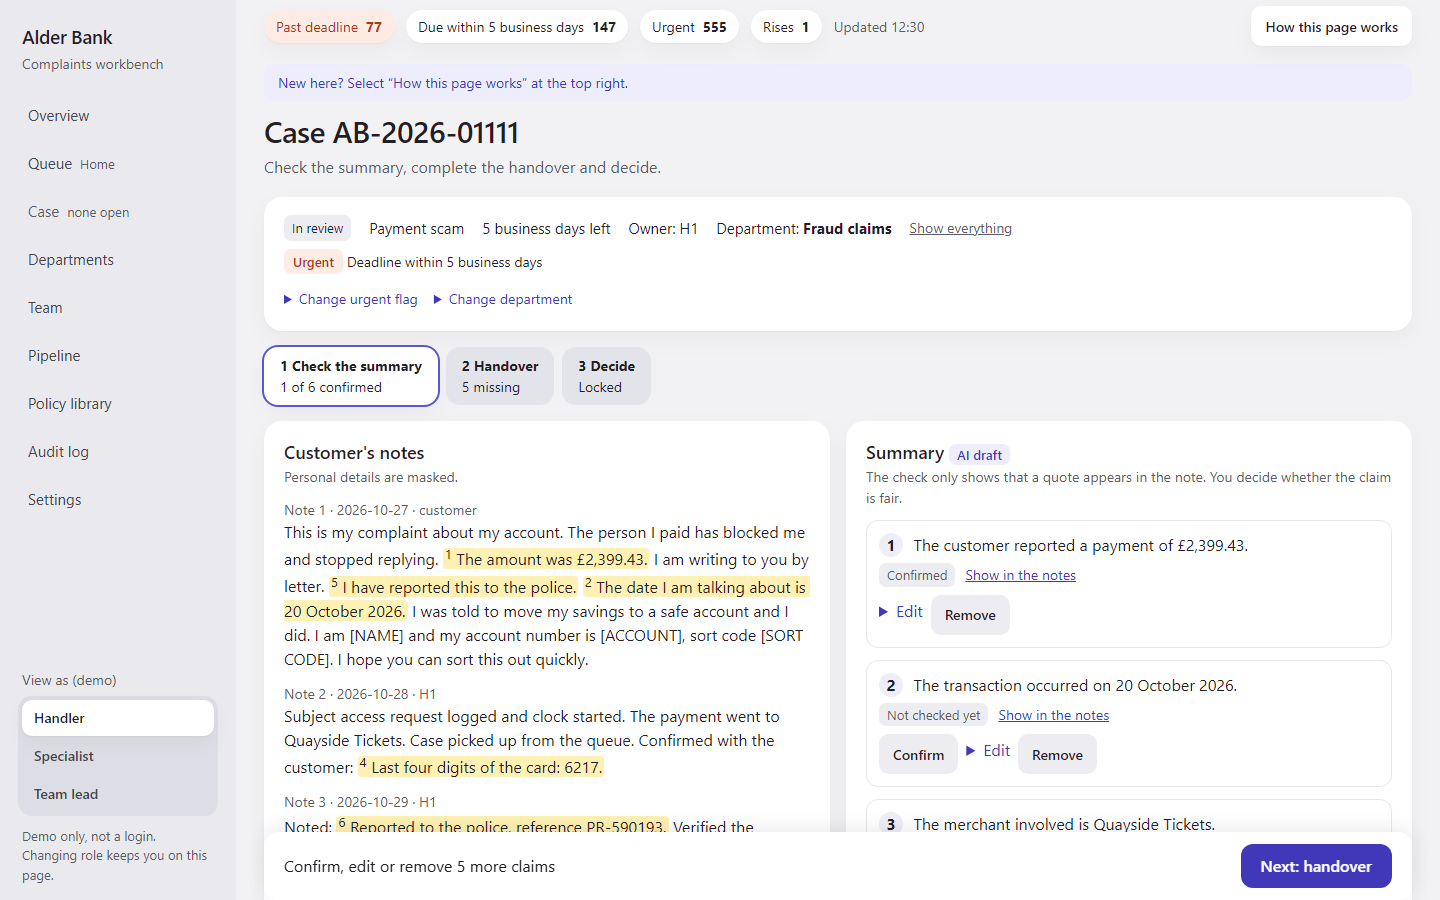
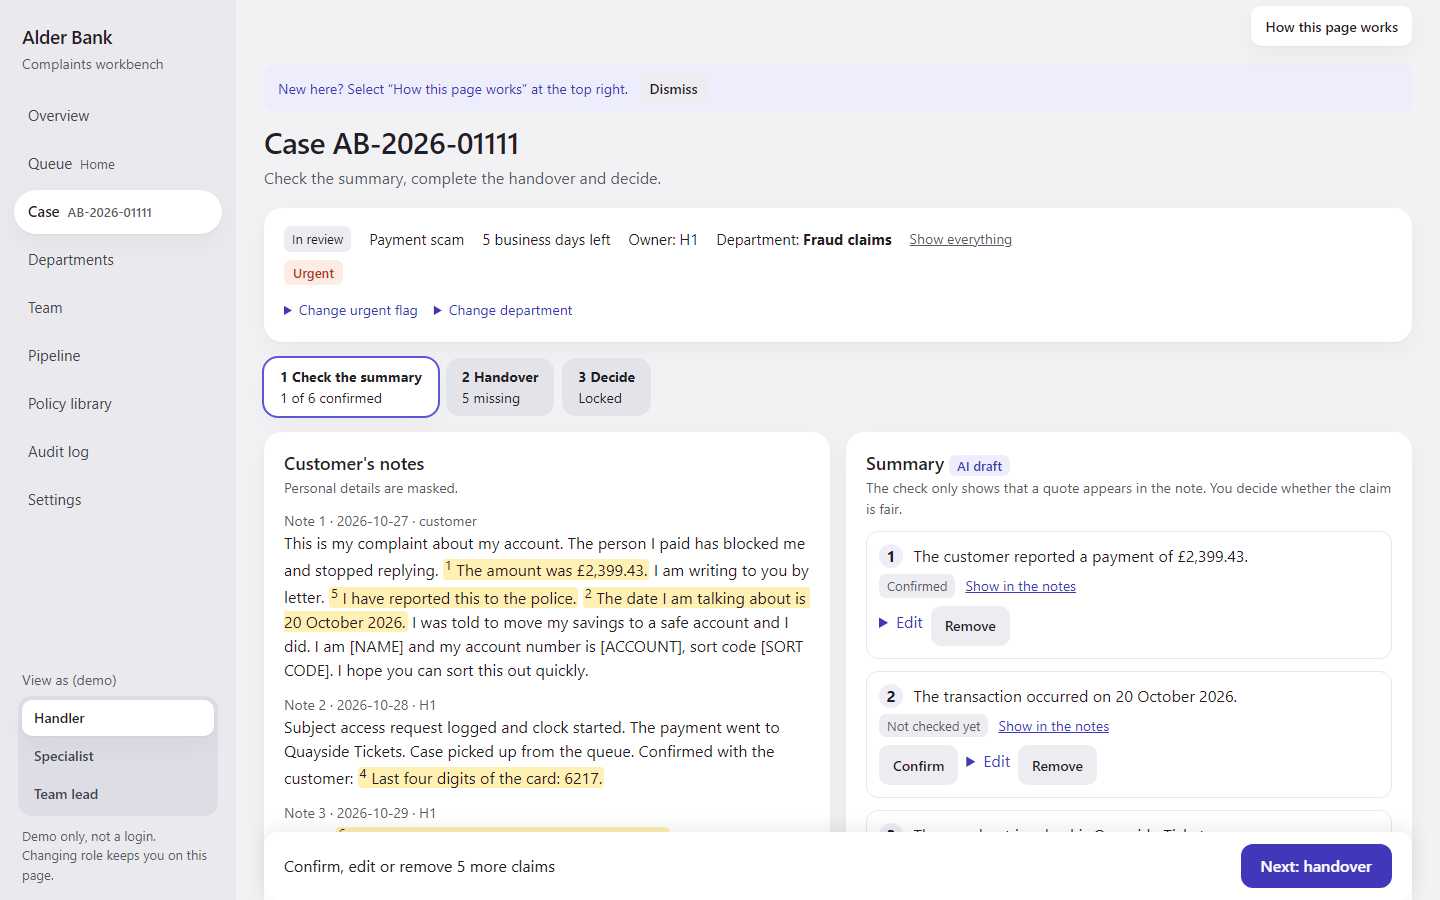
fix: case view after review (browser checks, demo case, screenshots)

diff --git a/workbench/static/app.js b/workbench/static/app.js
@@ -33,7 +33,7 @@
     if (!c || c.id !== 'case') return;
     var live = document.getElementById('live'), bar = document.getElementById('bar-text');
     if (live && bar) live.textContent = bar.textContent;
-    (c.querySelector('[data-focus]') || c.querySelector('button.primary:not([disabled])') || c).focus();
+    (c.querySelector('[data-focus]') || c.querySelector('button.primary:not([disabled]), a.primary') || c).focus();
   });
   var hint = document.getElementById('hint');
   try {

diff --git a/workbench/templates/partials/handover.html b/workbench/templates/partials/handover.html
@@ -11,6 +11,6 @@
     <button type="submit">Save handover</button>
   </form>
   {% else %}
-  <dl class="pairs">{% for f in v.fields %}<dt>{{ f.label }}</dt><dd>{{ f.value or "Missing" }}</dd>{% endfor %}</dl>
+  <dl class="pairs">{% for f in v.fields %}<dt>{{ f.label }}</dt><dd>{% if f.money and f.value %}£{% endif %}{{ f.value or "Missing" }}</dd>{% endfor %}</dl>
   {% endif %}
 </section>

diff --git a/tests/e2e/test_case_flow.py b/tests/e2e/test_case_flow.py
@@ -57,9 +57,15 @@ class Count:
         """Tab to the next Confirm button and press Enter, as a keyboard user would."""
         for _ in range(80):
             if self.page.evaluate("document.activeElement.classList.contains('confirm')"):
+                before = self.page.locator("#live").inner_text()
                 with self.page.expect_response(lambda r: r.request.method == "POST"):
                     self.press("Enter")
                 self.page.wait_for_timeout(250)
+                inside = self.page.evaluate("!!document.activeElement.closest('#case') && document.activeElement.tagName !== 'DIV'")
+                assert inside, "focus fell out of the case after a swap"
+                if self.page.locator("button.confirm").count():
+                    assert self.page.evaluate("document.activeElement.classList.contains('confirm')")
+                assert self.page.locator("#live").inner_text() != before, "no announcement after the swap"
                 return True
             self.press("Tab")
         return False
@@ -80,16 +86,42 @@ def switch(page, name):
     page.wait_for_load_state("networkidle")
 
 
+def test_screenshots_from_a_fresh_database(base, dbfile, browser):
+    """Run first in this module: viewport-size shots before the flow writes anything."""
+    from workbench import drafts
+    from workbench.config import load_config
+    from workbench.db import connect
+    SHOTS.mkdir(parents=True, exist_ok=True)
+    cfg = load_config()
+    mid, handed = candidates(dbfile)[3], candidates(dbfile)[4]
+    c = connect(dbfile)  # the second case is handed over the way a handler would leave it: claims confirmed, handover saved
+    c.execute("UPDATE claims SET status='confirmed' WHERE case_id=? AND supported=1", (handed,))
+    c.execute("UPDATE claims SET status='removed' WHERE case_id=? AND status='draft'", (handed,))
+    pack = drafts.load_handover(c, handed, cfg)
+    c.execute("UPDATE cases SET state='handed_over', handover_json=?, owner_id='S1' WHERE id=?", (json.dumps(pack), handed))
+    c.commit()
+    c.close()
+    page = new_page(browser, base)
+    page.goto(f"{base}/cases/{mid}")
+    page.locator("button.confirm").first.click()
+    expect(page.locator(".stepper a").first).to_contain_text("1 of")
+    page.screenshot(path=str(SHOTS / "case.png"))
+    switch(page, "Specialist")
+    page.goto(f"{base}/cases/{handed}")
+    page.screenshot(path=str(SHOTS / "case-specialist.png"))
+    page.close()
+
+
 def test_full_flow(base, dbfile, browser):
     cid = candidates(dbfile)[0]
     page = new_page(browser, base)
     n = Count(page)
-    page.goto(base + "/queue")
-    link = page.locator(f'a[href="/cases/{cid}"]')
-    if not link.count():
-        page.goto(base + "/queue?owner=me&department=Fraud+claims")
-        link = page.locator(f'a[href="/cases/{cid}"]')
-    n.click(link.first)
+    from workbench.config import load_config
+    assert cid == load_config()["demo_case"]
+    page.goto(base + "/queue?owner=me&state=in_review&department=Fraud+claims")  # a filtered Queue (the URL stands in for the Filters form)
+    first = page.locator("tr.case-row a").first
+    assert first.get_attribute("href") == f"/cases/{cid}"
+    n.click(first)
     page.wait_for_load_state("networkidle")
     assert page.url == f"{base}/cases/{cid}"
 
@@ -140,7 +172,6 @@ def test_full_flow(base, dbfile, browser):
     switch(page, "Specialist")
     assert page.url == url
     page.goto(url)
-    page.screenshot(path=str(SHOTS / "case-specialist.png"), full_page=True)
     assert page.get_by_role("button", name="Accept").is_visible() and not page.get_by_role("button", name="Approve and send").count()
     page.locator("summary", has_text="Return to the handler").click()
     page.get_by_label("Reason").last.fill("Police reference does not match.")
@@ -148,7 +179,8 @@ def test_full_flow(base, dbfile, browser):
     expect(page.locator("#bar-text")).to_contain_text("Nothing for you")
     switch(page, "Handler")
     page.goto(base + "/queue")
-    row = page.locator(f'tr[data-case="{cid}"]')
+    page.goto(base + "/queue?owner=me&state=returned&department=Fraud+claims")
+    row = page.locator(f'tr[data-case="{cid}"]')  # not first: an older returned case of H1 is above it
     assert "Returned" in row.inner_text()
     # resend, then the specialist returns again: the team lead owns it
     row.locator("a").click()
@@ -192,7 +224,6 @@ def test_case_in_browser(base, dbfile, browser, width):
     if width == 1440:  # mid-check: one claim confirmed
         page.locator("button.confirm").first.click()
         expect(page.locator(".stepper a").first).to_contain_text("1 of")
-        page.screenshot(path=str(SHOTS / "case.png"))
     for url in (f"{base}/cases/{cid}", f"{base}/cases/{cid}?all=1"):
         page.goto(url)
         page.wait_for_load_state("networkidle")
